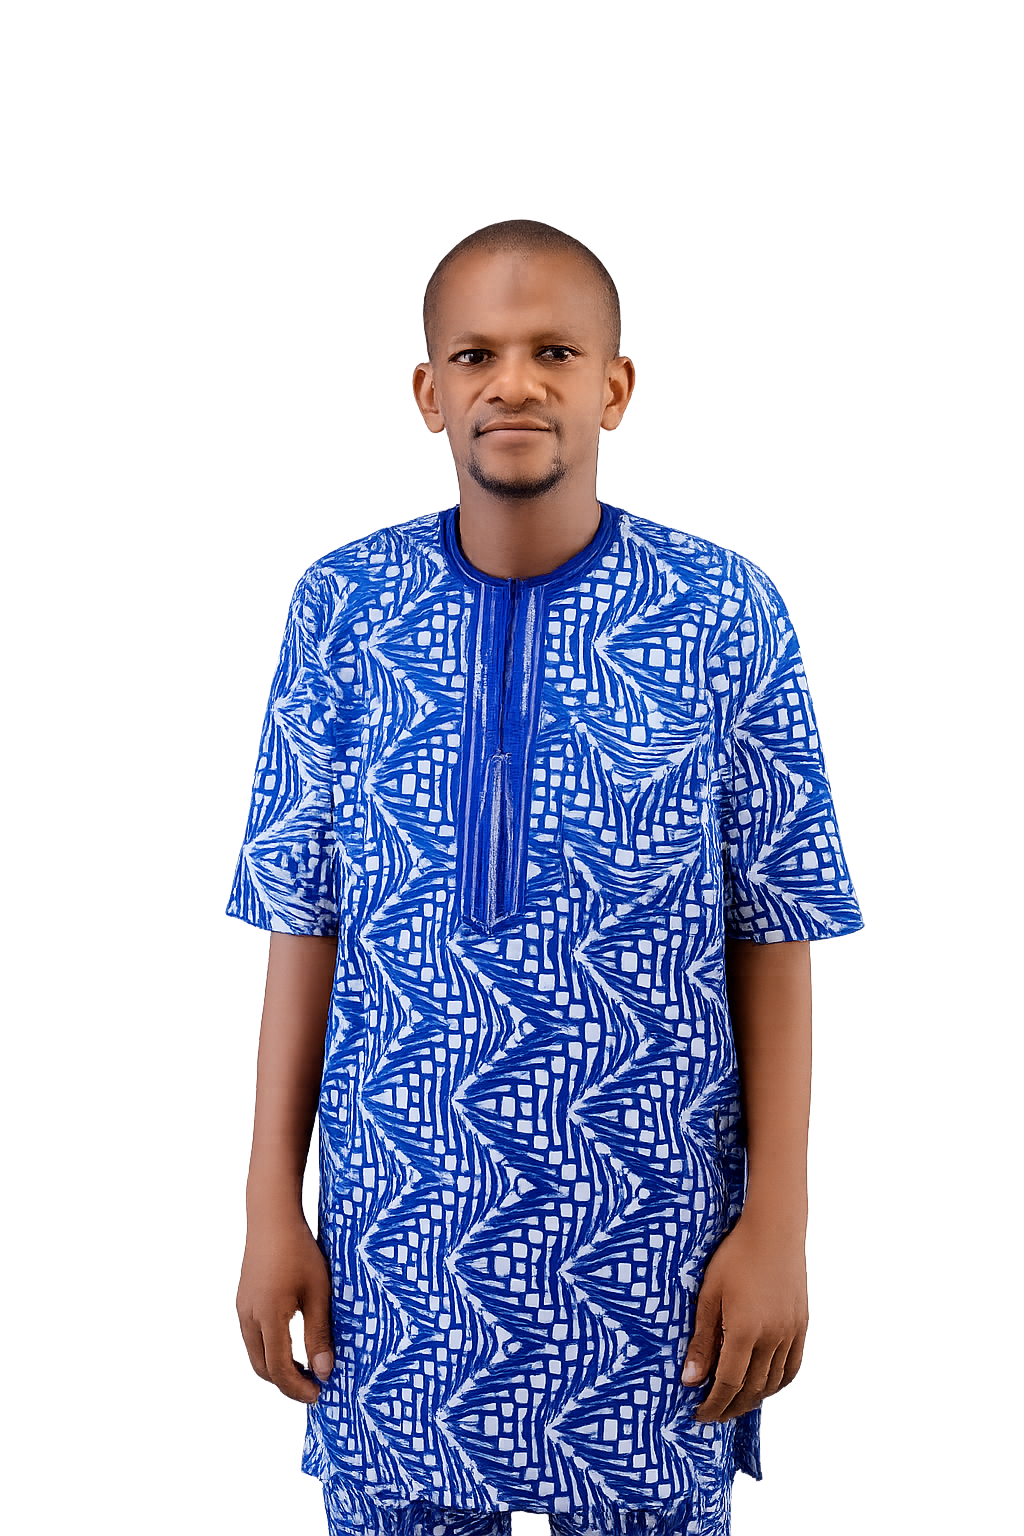
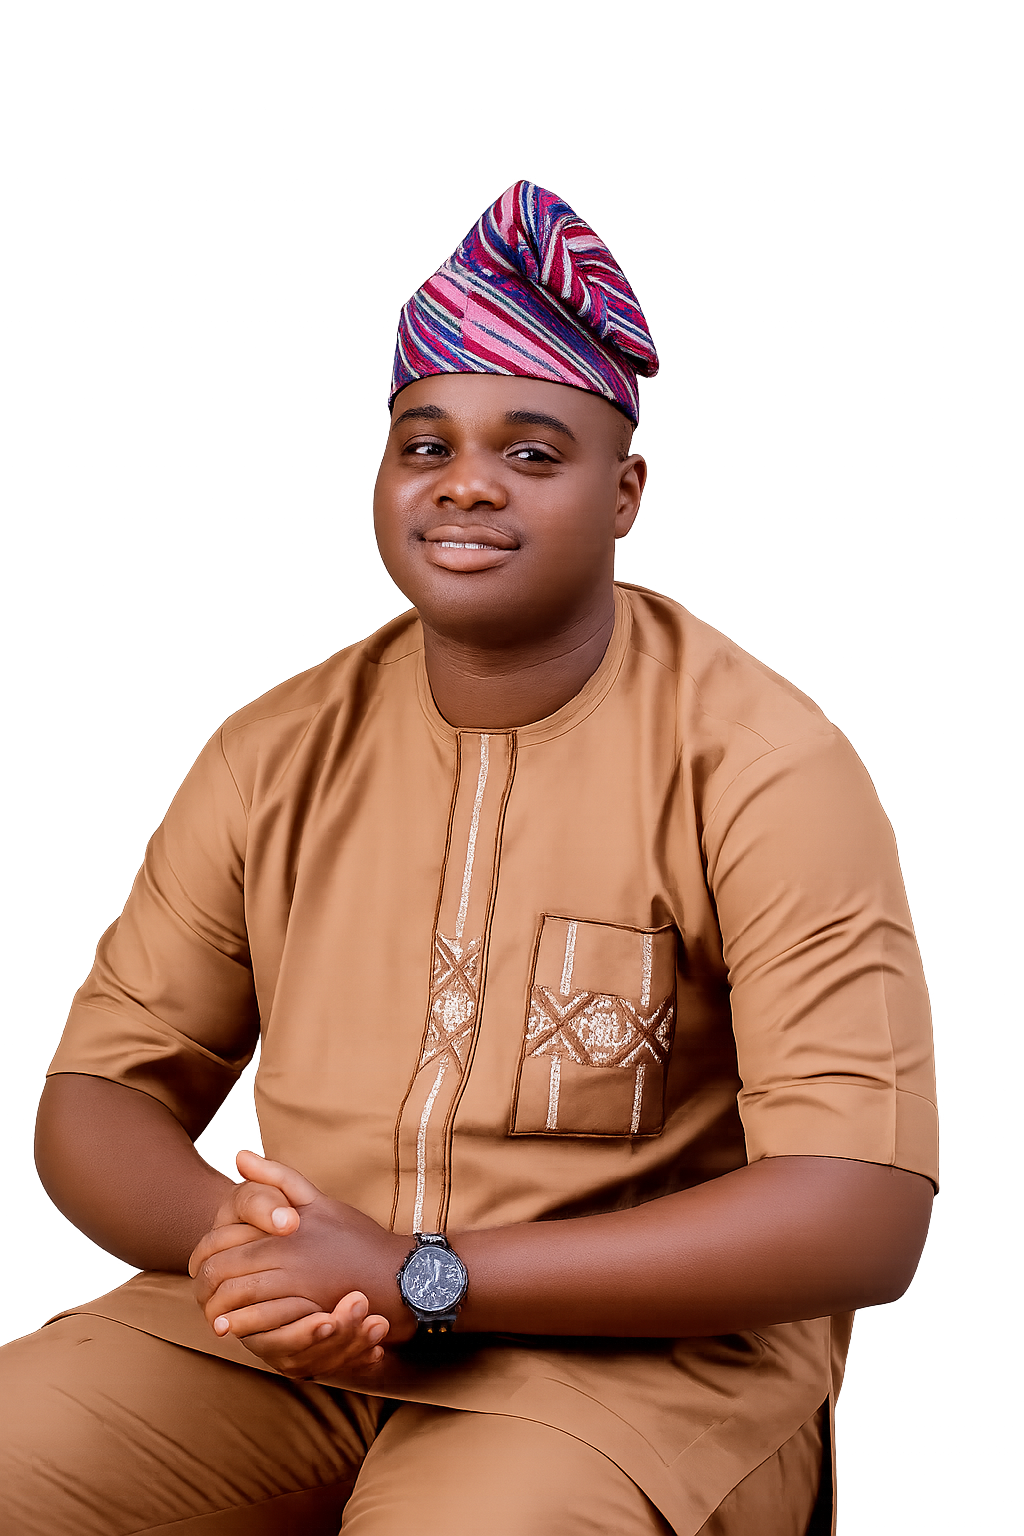
Add delegate WhatsApp group link and update panelist details in registration success page

diff --git a/ieps_3.0/ieps-summit/app/register/success/page.tsx b/ieps_3.0/ieps-summit/app/register/success/page.tsx
@@ -8,11 +8,12 @@ import {
   CalendarDays,
   MapPin,
   Share2,
+  UsersRound,
   Ticket,
 } from "lucide-react";
 import { Button } from "@/components/ui/Button";
 import { EVENT } from "@/lib/constants";
-import { whatsappShareUrl } from "@/lib/share";
+import { DELEGATE_WHATSAPP_GROUP_URL } from "@/lib/share";
 import { AttendanceBadge } from "@/components/register/AttendanceBadge";
 
 type StoredRegistration = {
@@ -65,7 +66,7 @@ export default function RegistrationSuccessPage() {
     }
   }, []);
 
-  const whatsappUrl = whatsappShareUrl();
+  const whatsappUrl = DELEGATE_WHATSAPP_GROUP_URL;
 
   return (
     <section className="relative flex min-h-[100svh] items-center justify-center overflow-hidden bg-navy px-5 py-28 text-white">
@@ -141,11 +142,32 @@ export default function RegistrationSuccessPage() {
         </div>
 
         {/* Actions */}
-        <div className="mt-8 flex flex-col items-center justify-center gap-3 sm:flex-row">
-          <Button href={whatsappUrl} external variant="secondary" size="lg">
-            <Share2 className="h-5 w-5" />
-            Share on WhatsApp
-          </Button>
+        <div className="mt-8 rounded-2xl border border-gold/20 bg-gold/10 p-5 text-left backdrop-blur">
+          <div className="flex items-start gap-3">
+            <UsersRound className="mt-0.5 h-5 w-5 shrink-0 text-gold" />
+            <div className="min-w-0 flex-1">
+              <p className="font-label text-[10px] font-semibold uppercase tracking-[0.28em] text-gold">
+                Delegate WhatsApp Group
+              </p>
+              <p className="mt-2 text-sm leading-relaxed text-white/75">
+                Join the delegate WhatsApp group for more information and live
+                updates about IEPS 3.0.
+              </p>
+              <Button
+                href={whatsappUrl}
+                external
+                variant="primary"
+                size="lg"
+                className="mt-4 w-full sm:w-auto"
+              >
+                <Share2 className="h-5 w-5" />
+                Join Delegate WhatsApp Group
+              </Button>
+            </div>
+          </div>
+        </div>
+
+        <div className="mt-3 flex flex-col items-center justify-center gap-3 sm:flex-row">
           <Button href="/" variant="outline" size="lg">
             <Home className="h-5 w-5" />
             Back to Home

diff --git a/ieps_3.0/ieps-summit/lib/constants.ts b/ieps_3.0/ieps-summit/lib/constants.ts
@@ -24,8 +24,8 @@ export const EVENT = {
   dayLabel: "Wednesday",
   timeLabel: "10:00 AM prompt",
   venue: {
-    name: "EDM Board Room",
-    shortName: "EDM Board Room, OAU",
+    name: "Bew EDM Boardroom",
+    shortName: "Bew EDM Boardroom, OAU",
     institution: "Obafemi Awolowo University",
     city: "Ile-Ife",
     state: "Osun State",
@@ -173,19 +173,19 @@ export const PANELISTS = [
   },
   {
     slot: "Panelist",
-    name: "To Be Announced",
+    name: "Hon. Boluwatife Olatunji Paul (BOP)",
     detail: "",
-    photo: null as string | null,
-    position: "center",
-    scale: 1,
+    photo: "/speakers/panelist3.png" as string | null,
+    position: "50% 14%",
+    scale: 1.05,
   },
   {
     slot: "Panelist",
-    name: "To Be Announced",
+    name: "Rt. Hon. Praise Ojo",
     detail: "",
-    photo: null as string | null,
-    position: "center",
-    scale: 1,
+    photo: "/speakers/panelist4.png" as string | null,
+    position: "50% 10%",
+    scale: 1.05,
   },
 ] as const;
 

diff --git a/ieps_3.0/ieps-summit/lib/email.ts b/ieps_3.0/ieps-summit/lib/email.ts
@@ -2,6 +2,7 @@ import nodemailer, { type Transporter } from "nodemailer";
 import fs from "fs";
 import path from "path";
 import { EVENT, CONTACT, ORGANIZERS } from "@/lib/constants";
+import { DELEGATE_WHATSAPP_GROUP_URL } from "@/lib/share";
 
 /* ────────────────────────────────────────────────────────────
  * Brand logo — embedded as an inline CID attachment so it renders
@@ -159,6 +160,18 @@ export function confirmationEmailHtml({ fullName }: ConfirmationData): string {
                 for a day of dialogue, leadership and reform.
               </p>
 
+              <table role="presentation" width="100%" cellpadding="0" cellspacing="0" style="margin:22px 0 0;background-color:#fff8dd;border:1px solid rgba(245,196,0,0.4);border-radius:14px;">
+                <tr>
+                  <td style="padding:18px 20px;">
+                    <p style="margin:0 0 6px;color:#806600;font-size:11px;text-transform:uppercase;letter-spacing:2px;">Delegate WhatsApp Group</p>
+                    <p style="margin:0;color:#3a3a4e;font-size:14px;line-height:1.7;">Join the delegate WhatsApp group for more information and live updates about IEPS 3.0.</p>
+                    <p style="margin:12px 0 0;">
+                      <a href="${DELEGATE_WHATSAPP_GROUP_URL}" style="display:inline-block;background-color:${gold};color:${navy};font-size:14px;font-weight:bold;text-decoration:none;padding:12px 22px;border-radius:999px;">Join Delegate WhatsApp Group</a>
+                    </p>
+                  </td>
+                </tr>
+              </table>
+
               <!-- Event details docket -->
               <table role="presentation" width="100%" cellpadding="0" cellspacing="0" style="margin:26px 0;background-color:#f9f7f0;border-left:4px solid ${gold};border-radius:0 12px 12px 0;">
                 <tr>
@@ -215,6 +228,8 @@ export function confirmationEmailText({ fullName }: ConfirmationData): string {
     `Date:  ${EVENT.dateLabel}, ${EVENT.timeLabel}`,
     `Venue: ${EVENT.venue.name}, ${EVENT.venue.institution}, ${EVENT.venue.city}, ${EVENT.venue.state}`,
     `Theme: ${EVENT.theme}`,
+    ``,
+    `Delegate WhatsApp group: ${DELEGATE_WHATSAPP_GROUP_URL}`,
     ``,
     `We look forward to seeing you!`,
     ``,

diff --git a/ieps_3.0/ieps-summit/lib/share.ts b/ieps_3.0/ieps-summit/lib/share.ts
@@ -15,3 +15,7 @@ export const SHARE_MESSAGE = [
 export function whatsappShareUrl(message: string = SHARE_MESSAGE): string {
   return `https://wa.me/?text=${encodeURIComponent(message)}`;
 }
+
+/** Delegate WhatsApp group for registration follow-up and updates. */
+export const DELEGATE_WHATSAPP_GROUP_URL =
+  "https://chat.whatsapp.com/J0tLcJNcbxgL822AvFKMS7?s=sw&p=a&mlu=4";